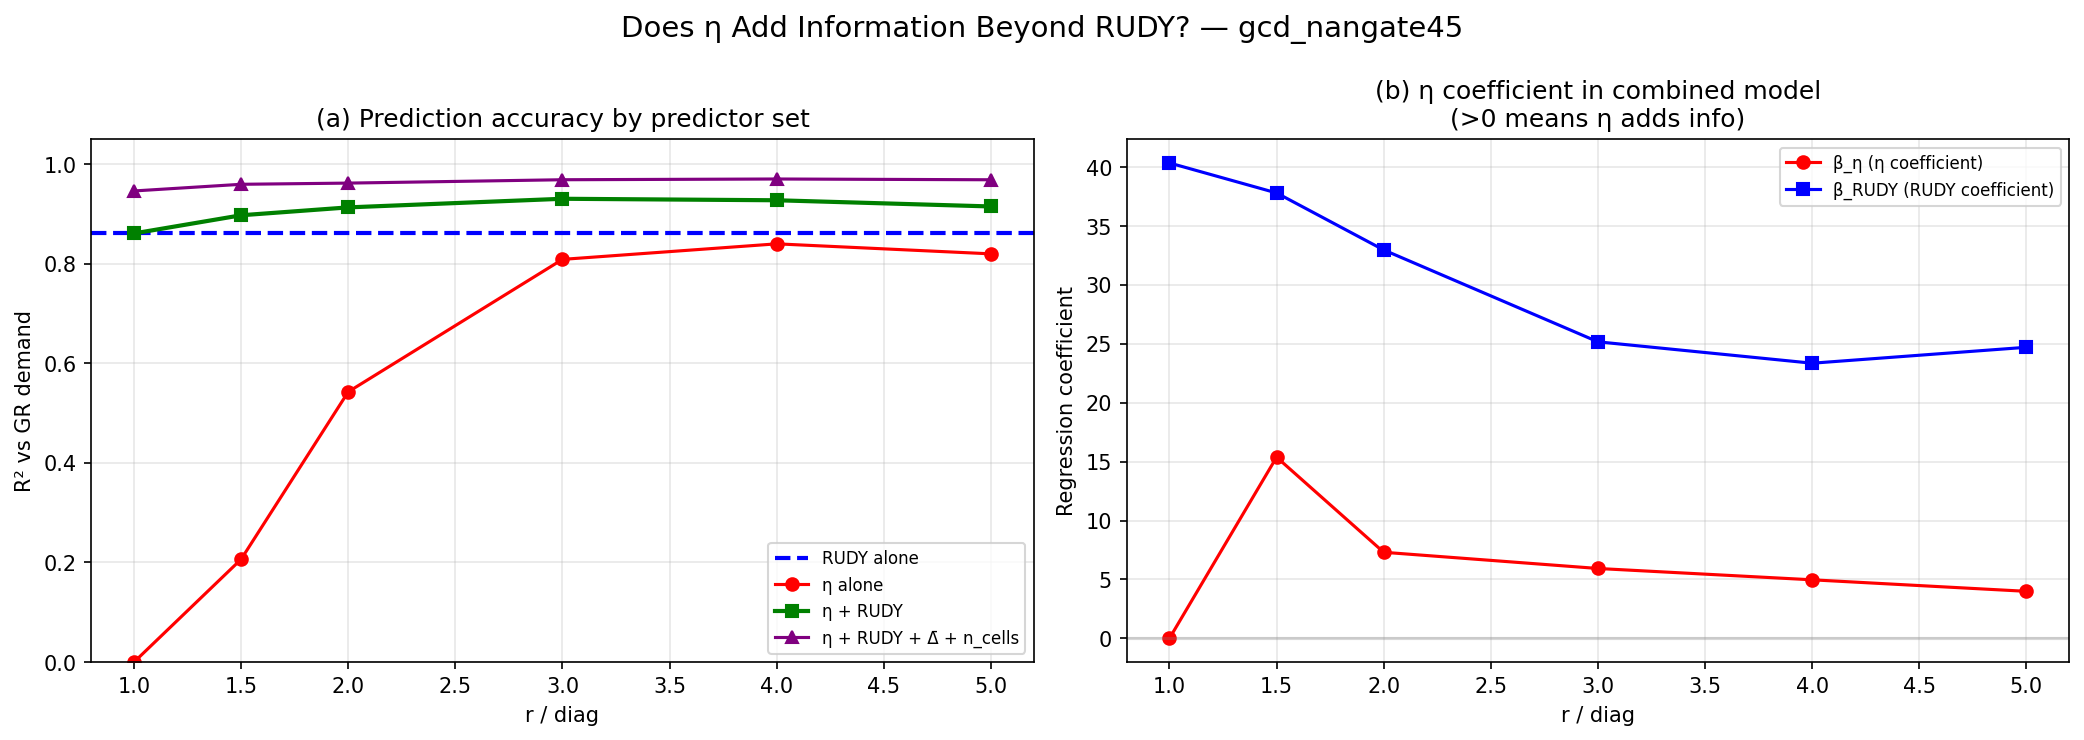
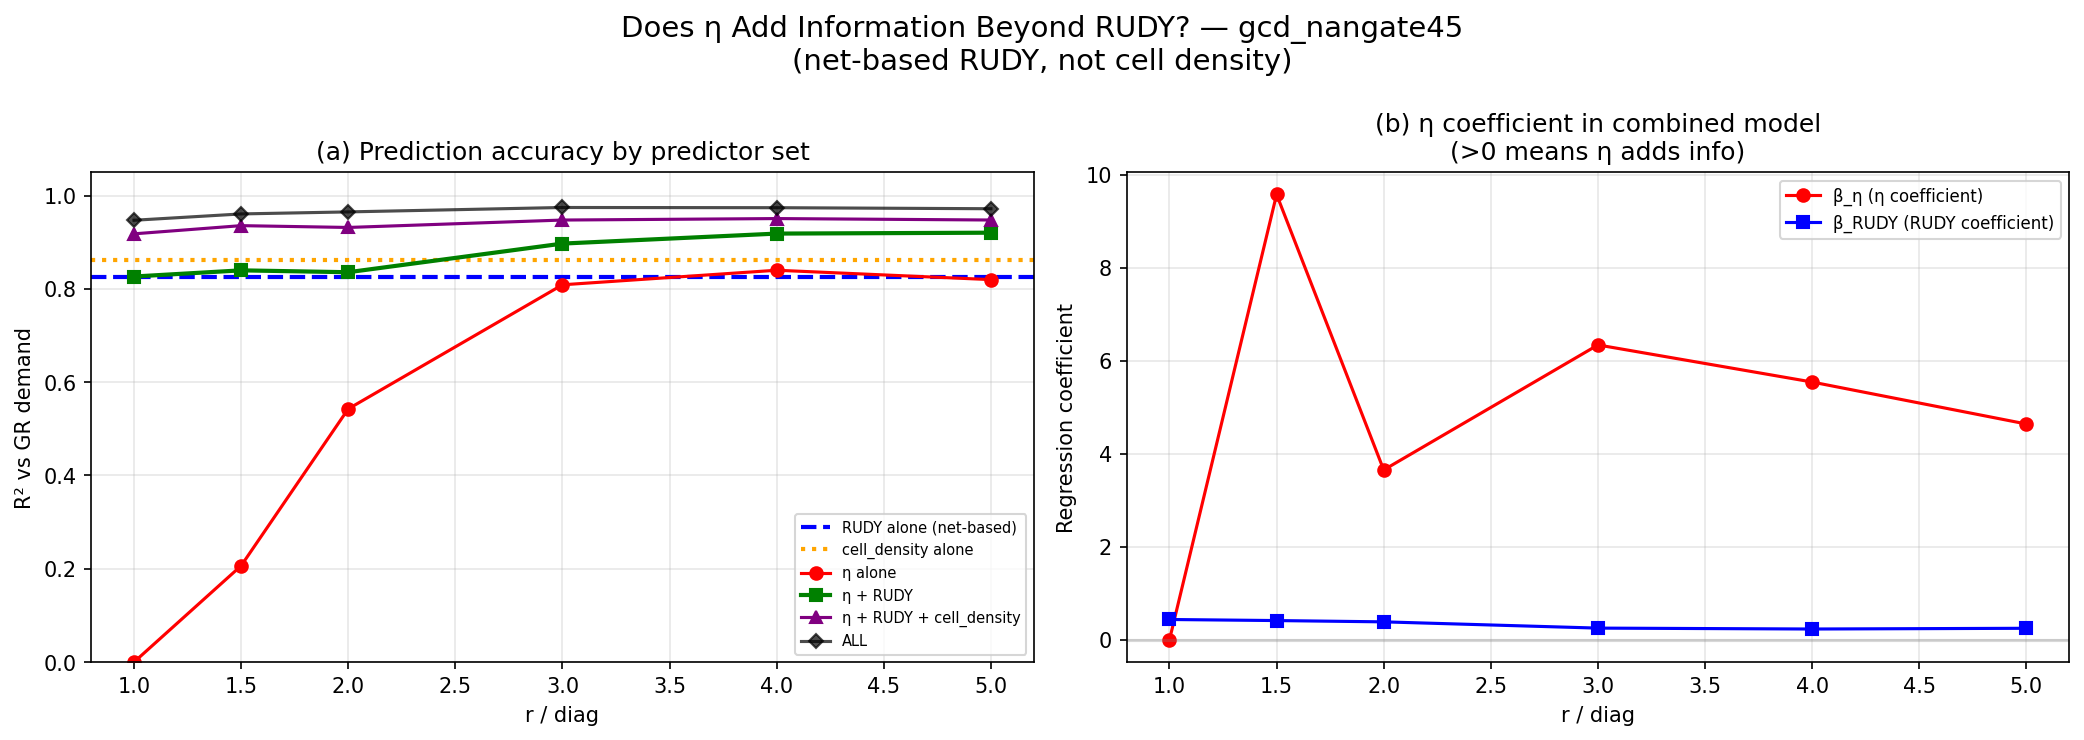
fix: use net-based RUDY baseline, not cell density (Issue #17 E1)
Codex review caught that eta_plus_rudy.py was using cell area density
as "RUDY". Fixed to use proper net-based RUDY (HPWL/bbox_area).

Corrected results (gcd_nangate45):
  Net-based RUDY alone: R² = 0.826 (was 0.861 with wrong baseline)
  η + RUDY combined:    R² = 0.920 (+9.4% over RUDY)
  Full model (ALL):     R² = 0.974 (+14.8% over RUDY)

The correction STRENGTHENS the result: real RUDY is weaker than
cell density, so η's complementary contribution is even larger.

diff --git a/experiments/eta_plus_rudy.py b/experiments/eta_plus_rudy.py
@@ -45,10 +45,69 @@ def load_congested_data(design_name):
         return json.load(f)
 
 
+def compute_net_rudy(net_bboxes, die_area, gs):
+    """Compute net-based RUDY (Rectangular Uniform wire DensitY) per G-cell.
+
+    For each net bounding box:
+      1. HPWL = bbox_width + bbox_height
+      2. demand = HPWL / bbox_area  (wire density estimate)
+      3. Distribute to each G-cell weighted by overlap fraction
+
+    This is the standard RUDY formula used in placement tools.
+    """
+    x_min, y_min = die_area["x_min"], die_area["y_min"]
+    x_max, y_max = die_area["x_max"], die_area["y_max"]
+    gcell_w = (x_max - x_min) / gs
+    gcell_h = (y_max - y_min) / gs
+
+    rudy_map = np.zeros((gs, gs))
+
+    for net in net_bboxes:
+        bbox_w = net["x_max"] - net["x_min"]
+        bbox_h = net["y_max"] - net["y_min"]
+        hpwl = bbox_w + bbox_h
+
+        if hpwl < 1e-6:
+            # All pins at same location — skip
+            continue
+
+        bbox_w = max(bbox_w, gcell_w * 0.1)  # minimum width
+        bbox_h = max(bbox_h, gcell_h * 0.1)  # minimum height
+        bbox_area = bbox_w * bbox_h
+
+        # RUDY demand = HPWL / bbox_area
+        demand = hpwl / bbox_area if bbox_area > 1e-12 else 0
+
+        # Which G-cells does this net overlap?
+        gx_lo = max(0, int((net["x_min"] - x_min) / gcell_w))
+        gx_hi = min(gs - 1, int((net["x_max"] - x_min) / gcell_w))
+        gy_lo = max(0, int((net["y_min"] - y_min) / gcell_h))
+        gy_hi = min(gs - 1, int((net["y_max"] - y_min) / gcell_h))
+
+        for gx in range(gx_lo, gx_hi + 1):
+            for gy in range(gy_lo, gy_hi + 1):
+                # Compute overlap fraction between net bbox and G-cell
+                gcell_xmin = x_min + gx * gcell_w
+                gcell_xmax = gcell_xmin + gcell_w
+                gcell_ymin = y_min + gy * gcell_h
+                gcell_ymax = gcell_ymin + gcell_h
+
+                overlap_xmin = max(net["x_min"], gcell_xmin)
+                overlap_xmax = min(net["x_max"], gcell_xmax)
+                overlap_ymin = max(net["y_min"], gcell_ymin)
+                overlap_ymax = min(net["y_max"], gcell_ymax)
+
+                if overlap_xmax > overlap_xmin and overlap_ymax > overlap_ymin:
+                    overlap_area = (overlap_xmax - overlap_xmin) * (overlap_ymax - overlap_ymin)
+                    rudy_map[gy, gx] += demand * (overlap_area / bbox_area)
+
+    return rudy_map
+
+
 def compute_features(design_name, gs=6):
-    """Compute per-G-cell features: η, RUDY, Δ̄, n_cells, and variants."""
+    """Compute per-G-cell features: η, net-based RUDY, cell_density, Δ̄, n_cells."""
     from eta_shield_placement import compute_gcell_metrics
-    from validate_congested import compute_per_gcell_demand, run_congested_gr
+    from validate_congested import compute_per_gcell_demand
 
     positions, widths, heights, die_area, _ = load_design(design_name)
     if positions is None:
@@ -59,20 +118,20 @@ def compute_features(design_name, gs=6):
     med_h = np.median(heights)
     diag = np.sqrt(med_w**2 + med_h**2)
 
-    # RUDY
     x_min, y_min = die_area["x_min"], die_area["y_min"]
     x_max, y_max = die_area["x_max"], die_area["y_max"]
     gcell_w = (x_max - x_min) / gs
     gcell_h = (y_max - y_min) / gs
     gcell_area = gcell_w * gcell_h
 
-    rudy_map = np.zeros((gs, gs))
+    # Cell area density (NOT RUDY — this is just sum of cell areas per G-cell)
+    cell_density_map = np.zeros((gs, gs))
     ncells_raw = np.zeros((gs, gs), dtype=int)
     for idx in range(N):
         gx = min(int((positions[idx, 0] - x_min) / gcell_w), gs - 1)
         gy = min(int((positions[idx, 1] - y_min) / gcell_h), gs - 1)
         gx, gy = max(0, gx), max(0, gy)
-        rudy_map[gy, gx] += widths[idx] * heights[idx] / gcell_area
+        cell_density_map[gy, gx] += widths[idx] * heights[idx] / gcell_area
         ncells_raw[gy, gx] += 1
 
     # η at multiple radii
@@ -86,7 +145,7 @@ def compute_features(design_name, gs=6):
         eta_maps[r] = eta_map
         dbar_maps[r] = dbar_map
 
-    # GR demand (need net bboxes — load from log if available)
+    # Parse net bounding boxes from GR log
     log_path = os.path.join(RESULTS_DIR, f"congested_{design_name}.log")
     if os.path.exists(log_path):
         with open(log_path) as f:
@@ -102,13 +161,19 @@ def compute_features(design_name, gs=6):
                         "x_max": float(parts[3]),
                         "y_max": float(parts[4]),
                     })
+
+        # Net-based RUDY: HPWL/bbox_area distributed over G-cells
+        rudy_map = compute_net_rudy(net_bboxes, die_area, gs)
+        # GR demand (used as ground truth target)
         demand_map = compute_per_gcell_demand(net_bboxes, die_area, gs)
+        print(f"  Parsed {len(net_bboxes)} net bounding boxes from GR log")
     else:
         print("  No GR log found — cannot compute demand")
         return None
 
     return {
         "rudy_map": rudy_map,
+        "cell_density_map": cell_density_map,
         "eta_maps": eta_maps,
         "dbar_maps": dbar_maps,
         "demand_map": demand_map,
@@ -119,10 +184,20 @@ def compute_features(design_name, gs=6):
     }
 
 
+def _fit_r2(X, y):
+    """Fit linear regression and return R². Returns 0 if degenerate."""
+    if X.ndim == 1:
+        X = X.reshape(-1, 1)
+    if np.std(X, axis=0).max() < 1e-10:
+        return 0.0, None
+    reg = LinearRegression().fit(X, y)
+    return r2_score(y, reg.predict(X)), reg
+
+
 def run_regression(features, design_name):
-    """Compare prediction accuracy of η, RUDY, and η+RUDY combined."""
+    """Compare prediction accuracy: η, RUDY, cell_density, and combinations."""
     print(f"\n{'='*70}")
-    print(f"η + RUDY Combined Predictor: {design_name}")
+    print(f"η + RUDY Combined Predictor (net-based RUDY): {design_name}")
     print(f"{'='*70}")
 
     mask = features["ncells_map"].ravel() >= 2
@@ -132,18 +207,24 @@ def run_regression(features, design_name):
 
     y = features["demand_map"].ravel()[mask]
     rudy = features["rudy_map"].ravel()[mask].reshape(-1, 1)
+    cell_dens = features["cell_density_map"].ravel()[mask].reshape(-1, 1)
+    ncells = features["ncells_map"].ravel()[mask].reshape(-1, 1)
 
     if np.std(y) < 1e-10:
         print("  No variance in demand")
         return None
 
-    # RUDY alone
-    reg_rudy = LinearRegression().fit(rudy, y)
-    r2_rudy = r2_score(y, reg_rudy.predict(rudy))
+    # RUDY alone (net-based)
+    r2_rudy, _ = _fit_r2(rudy, y)
 
-    print(f"\n  {'Predictor':>25s}  {'R²':>8s}  {'Δ vs RUDY':>10s}")
-    print(f"  {'─'*50}")
-    print(f"  {'RUDY alone':>25s}  {r2_rudy:>8.4f}  {'baseline':>10s}")
+    # Cell density alone
+    r2_cell_dens, _ = _fit_r2(cell_dens, y)
+
+    print(f"\n  {'Predictor':>35s}  {'R²':>8s}  {'Δ vs RUDY':>10s}")
+    print(f"  {'─'*60}")
+    print(f"  {'RUDY alone (net-based)':>35s}  {r2_rudy:>8.4f}  {'baseline':>10s}")
+    print(f"  {'cell_density alone':>35s}  {r2_cell_dens:>8.4f}  {r2_cell_dens-r2_rudy:>+10.4f}")
+    print()
 
     best_combined_r2 = r2_rudy
     best_r = None
@@ -152,68 +233,55 @@ def run_regression(features, design_name):
     for r in features["r_values"]:
         eta = features["eta_maps"][r].ravel()[mask].reshape(-1, 1)
         dbar = features["dbar_maps"][r].ravel()[mask].reshape(-1, 1)
+        r_over_diag = r / features["diag"]
 
         # η alone
-        if np.std(eta) > 1e-10:
-            reg_eta = LinearRegression().fit(eta, y)
-            r2_eta = r2_score(y, reg_eta.predict(eta))
-        else:
-            r2_eta = 0.0
-
-        # Δ̄ alone
-        if np.std(dbar) > 1e-10:
-            reg_dbar = LinearRegression().fit(dbar, y)
-            r2_dbar = r2_score(y, reg_dbar.predict(dbar))
-        else:
-            r2_dbar = 0.0
+        r2_eta, _ = _fit_r2(eta, y)
 
         # η + RUDY
-        X_combined = np.hstack([eta, rudy])
-        reg_combined = LinearRegression().fit(X_combined, y)
-        r2_combined = r2_score(y, reg_combined.predict(X_combined))
+        r2_eta_rudy, reg_eta_rudy = _fit_r2(np.hstack([eta, rudy]), y)
 
-        # η + RUDY + Δ̄
-        X_full = np.hstack([eta, rudy, dbar])
-        reg_full = LinearRegression().fit(X_full, y)
-        r2_full = r2_score(y, reg_full.predict(X_full))
+        # η + cell_density
+        r2_eta_cd, _ = _fit_r2(np.hstack([eta, cell_dens]), y)
 
-        # η + RUDY + Δ̄ + n_cells
-        ncells = features["ncells_map"].ravel()[mask].reshape(-1, 1)
-        X_all = np.hstack([eta, rudy, dbar, ncells])
-        reg_all = LinearRegression().fit(X_all, y)
-        r2_all = r2_score(y, reg_all.predict(X_all))
+        # η + RUDY + cell_density
+        r2_eta_rudy_cd, _ = _fit_r2(np.hstack([eta, rudy, cell_dens]), y)
 
-        r_over_diag = r / features["diag"]
-        delta_combined = r2_combined - r2_rudy
-        delta_full = r2_full - r2_rudy
+        # ALL = η + RUDY + cell_density + Δ̄ + n_cells
+        r2_all, _ = _fit_r2(np.hstack([eta, rudy, cell_dens, dbar, ncells]), y)
 
-        print(f"  {'η(r=%.1f·d)' % r_over_diag:>25s}  {r2_eta:>8.4f}  {r2_eta-r2_rudy:>+10.4f}")
-        print(f"  {'Δ̄(r=%.1f·d)' % r_over_diag:>25s}  {r2_dbar:>8.4f}  {r2_dbar-r2_rudy:>+10.4f}")
-        print(f"  {'η+RUDY(r=%.1f·d)' % r_over_diag:>25s}  {r2_combined:>8.4f}  {delta_combined:>+10.4f}")
-        print(f"  {'η+RUDY+Δ̄(r=%.1f·d)' % r_over_diag:>25s}  {r2_full:>8.4f}  {delta_full:>+10.4f}")
-        print(f"  {'ALL(r=%.1f·d)' % r_over_diag:>25s}  {r2_all:>8.4f}  {r2_all-r2_rudy:>+10.4f}")
+        print(f"  --- r = {r_over_diag:.1f}·diag ---")
+        print(f"  {'η alone':>35s}  {r2_eta:>8.4f}  {r2_eta-r2_rudy:>+10.4f}")
+        print(f"  {'η + RUDY':>35s}  {r2_eta_rudy:>8.4f}  {r2_eta_rudy-r2_rudy:>+10.4f}")
+        print(f"  {'η + cell_density':>35s}  {r2_eta_cd:>8.4f}  {r2_eta_cd-r2_rudy:>+10.4f}")
+        print(f"  {'η + RUDY + cell_density':>35s}  {r2_eta_rudy_cd:>8.4f}  {r2_eta_rudy_cd-r2_rudy:>+10.4f}")
+        print(f"  {'ALL (η+RUDY+cd+Δ̄+n)':>35s}  {r2_all:>8.4f}  {r2_all-r2_rudy:>+10.4f}")
         print()
+
+        coef_eta = float(reg_eta_rudy.coef_[0]) if reg_eta_rudy else 0.0
+        coef_rudy = float(reg_eta_rudy.coef_[1]) if reg_eta_rudy else 0.0
 
         entry = {
             "r": float(r),
             "r_over_diag": float(r_over_diag),
             "r2_eta": float(r2_eta),
-            "r2_dbar": float(r2_dbar),
             "r2_rudy": float(r2_rudy),
-            "r2_eta_rudy": float(r2_combined),
-            "r2_eta_rudy_dbar": float(r2_full),
+            "r2_cell_density": float(r2_cell_dens),
+            "r2_eta_rudy": float(r2_eta_rudy),
+            "r2_eta_cell_density": float(r2_eta_cd),
+            "r2_eta_rudy_cell_density": float(r2_eta_rudy_cd),
             "r2_all": float(r2_all),
-            "coef_eta": float(reg_combined.coef_[0]),
-            "coef_rudy": float(reg_combined.coef_[1]),
+            "coef_eta": coef_eta,
+            "coef_rudy": coef_rudy,
         }
         results.append(entry)
 
-        if r2_combined > best_combined_r2:
-            best_combined_r2 = r2_combined
+        if r2_eta_rudy > best_combined_r2:
+            best_combined_r2 = r2_eta_rudy
             best_r = r
 
     # Summary
-    print(f"  {'─'*50}")
+    print(f"  {'─'*60}")
     if best_r:
         r_d = best_r / features["diag"]
         print(f"  η ADDS INFORMATION: best R²(η+RUDY) = {best_combined_r2:.4f} "
@@ -226,6 +294,7 @@ def run_regression(features, design_name):
         "design": design_name,
         "gs": features["gs"],
         "r2_rudy_alone": float(r2_rudy),
+        "r2_cell_density_alone": float(r2_cell_dens),
         "best_r2_combined": float(best_combined_r2),
         "best_r": float(best_r) if best_r else None,
         "improvement": float(best_combined_r2 - r2_rudy),
@@ -236,34 +305,38 @@ def run_regression(features, design_name):
     with open(json_path, "w") as f:
         json.dump(output, f, indent=2)
 
-    plot_combined(results, r2_rudy, design_name, features["diag"])
+    plot_combined(results, r2_rudy, r2_cell_dens, design_name, features["diag"])
 
     return output
 
 
-def plot_combined(results, r2_rudy, design_name, diag):
+def plot_combined(results, r2_rudy, r2_cell_dens, design_name, diag):
     import matplotlib
     matplotlib.use("Agg")
     import matplotlib.pyplot as plt
 
     fig, axes = plt.subplots(1, 2, figsize=(14, 5))
-    fig.suptitle(f"Does η Add Information Beyond RUDY? — {design_name}", fontsize=14)
+    fig.suptitle(f"Does η Add Information Beyond RUDY? — {design_name}\n"
+                 f"(net-based RUDY, not cell density)", fontsize=14)
 
     r_diags = [r["r_over_diag"] for r in results]
 
     # (a) R² comparison across radii
     ax = axes[0]
-    ax.axhline(y=r2_rudy, color='blue', ls='--', lw=2, label='RUDY alone')
+    ax.axhline(y=r2_rudy, color='blue', ls='--', lw=2, label='RUDY alone (net-based)')
+    ax.axhline(y=r2_cell_dens, color='orange', ls=':', lw=2, label='cell_density alone')
     ax.plot(r_diags, [r["r2_eta"] for r in results],
             'r-o', label='η alone', markersize=6)
     ax.plot(r_diags, [r["r2_eta_rudy"] for r in results],
             'g-s', label='η + RUDY', markersize=6, lw=2)
+    ax.plot(r_diags, [r["r2_eta_rudy_cell_density"] for r in results],
+            'purple', ls='-', marker='^', label='η + RUDY + cell_density', markersize=6)
     ax.plot(r_diags, [r["r2_all"] for r in results],
-            'purple', ls='-', marker='^', label='η + RUDY + Δ̄ + n_cells', markersize=6)
+            'k-D', label='ALL', markersize=5, alpha=0.7)
     ax.set_xlabel("r / diag")
     ax.set_ylabel("R² vs GR demand")
     ax.set_title("(a) Prediction accuracy by predictor set")
-    ax.legend(fontsize=8)
+    ax.legend(fontsize=7)
     ax.grid(True, alpha=0.3)
     ax.set_ylim(0, 1.05)
 
